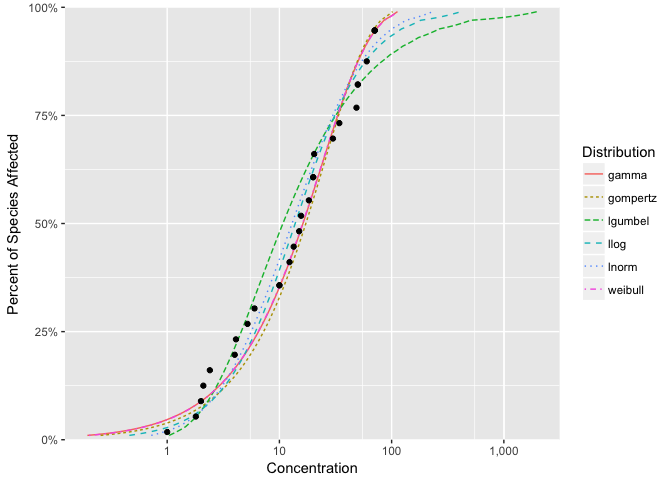
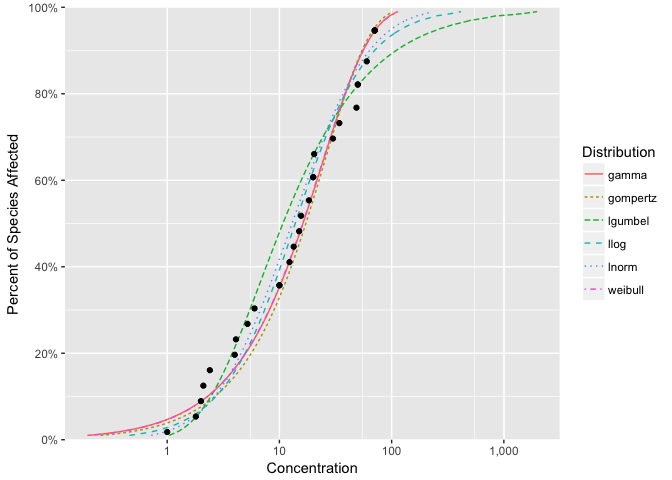
update breaks plots

diff --git a/README.md b/README.md
@@ -108,10 +108,10 @@ boron_pred <- predict(boron_dists)
 ```
 
 and plotted together with the original data using `ssd_plot` to produce
-a publication quality plot.
+a plot for publication.
 
 ``` r
-ssd_plot(boron_data, boron_pred)
+ssd_plot(boron_data, boron_pred, shape = "Group", label = "Species")
 ```
 
 ![](tools/README-unnamed-chunk-8-1.png)<!-- -->
